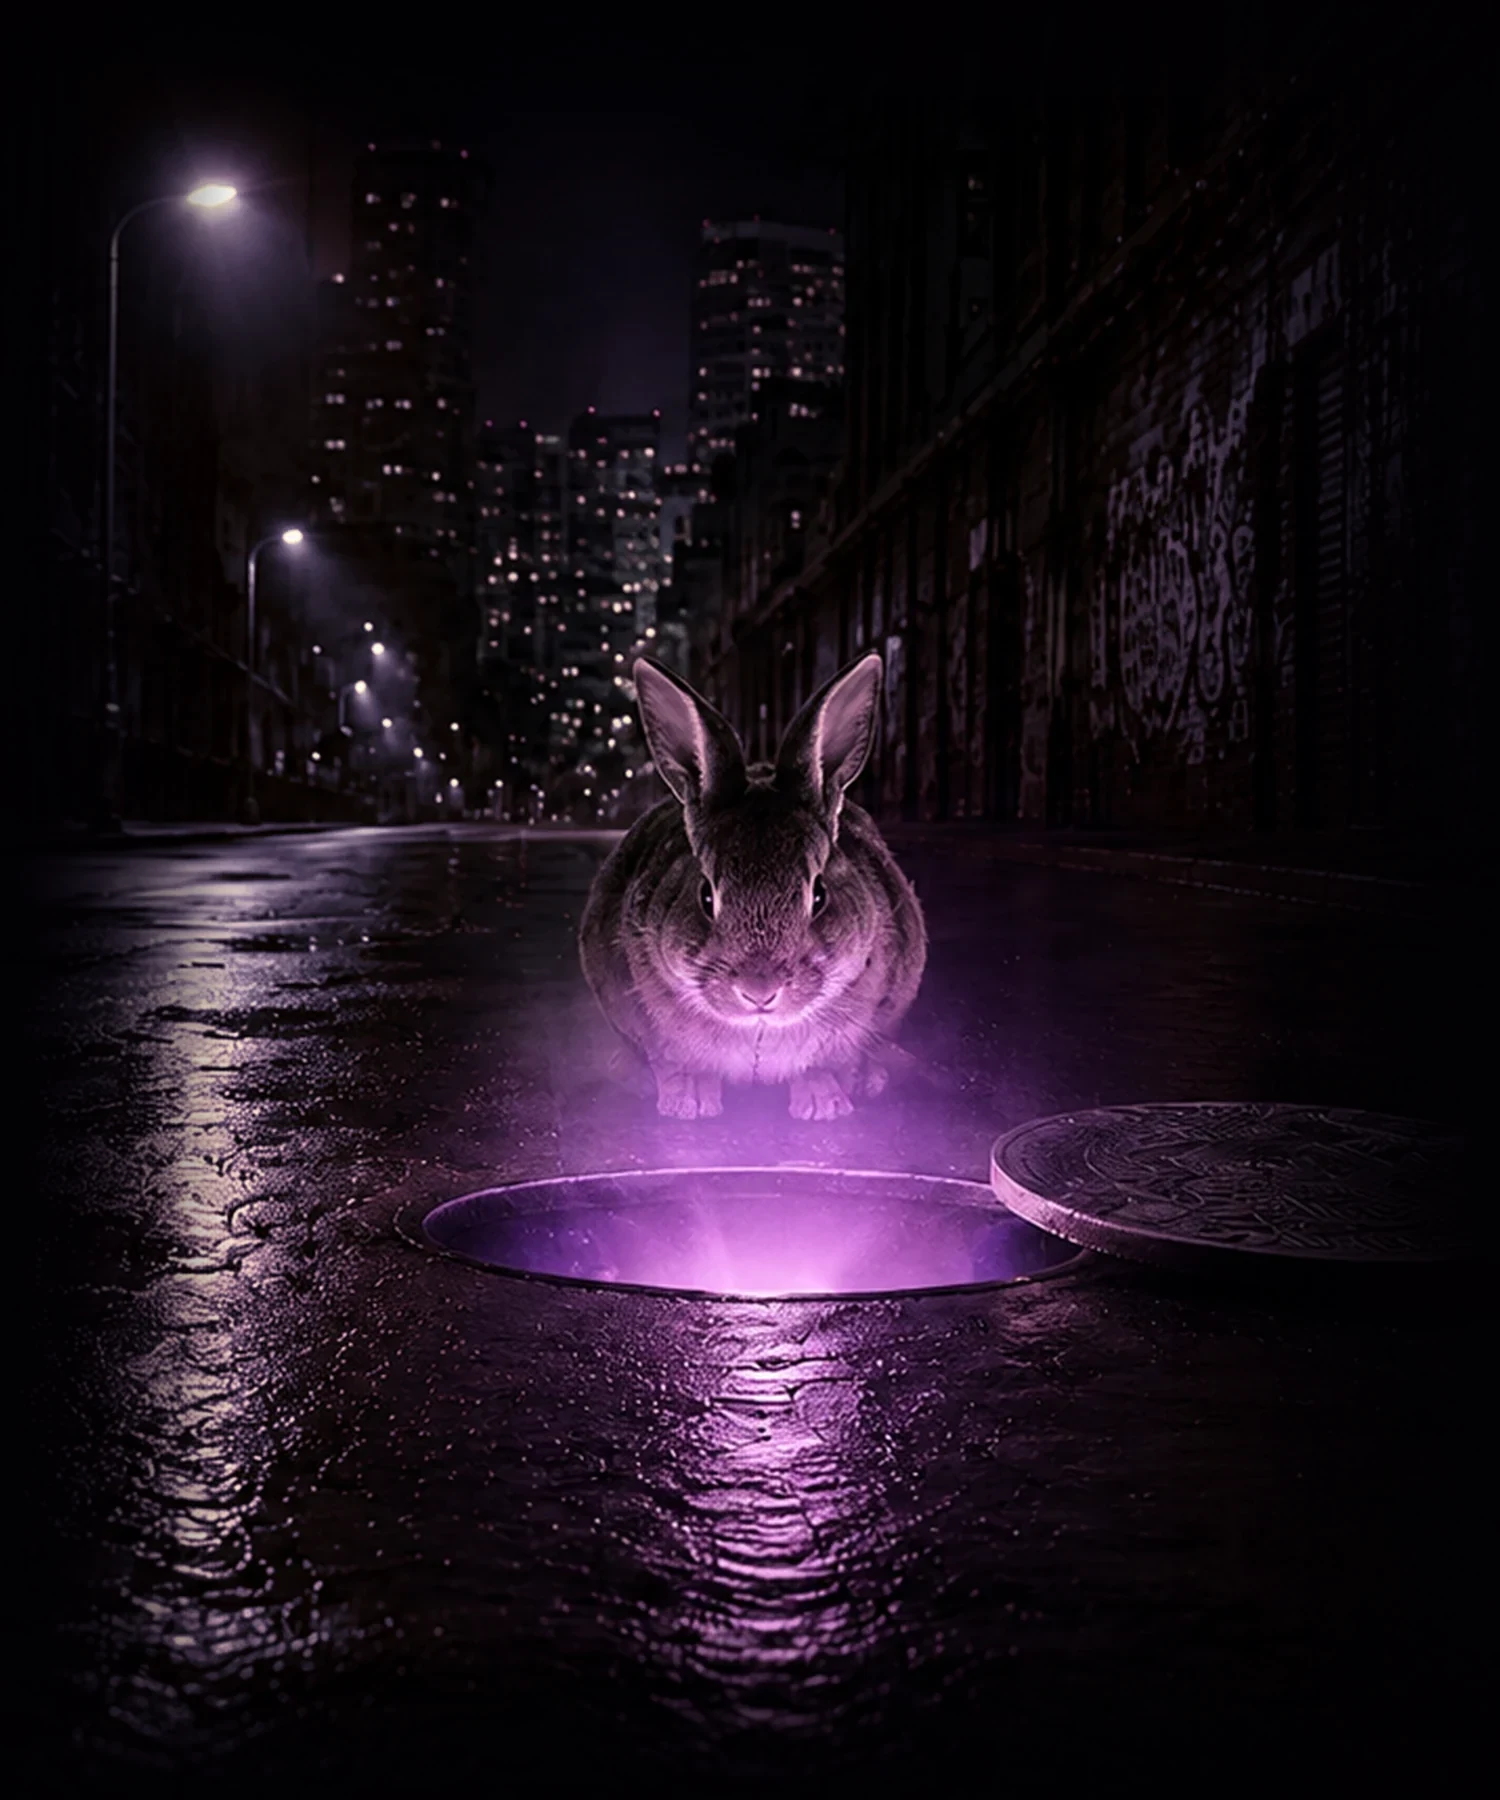
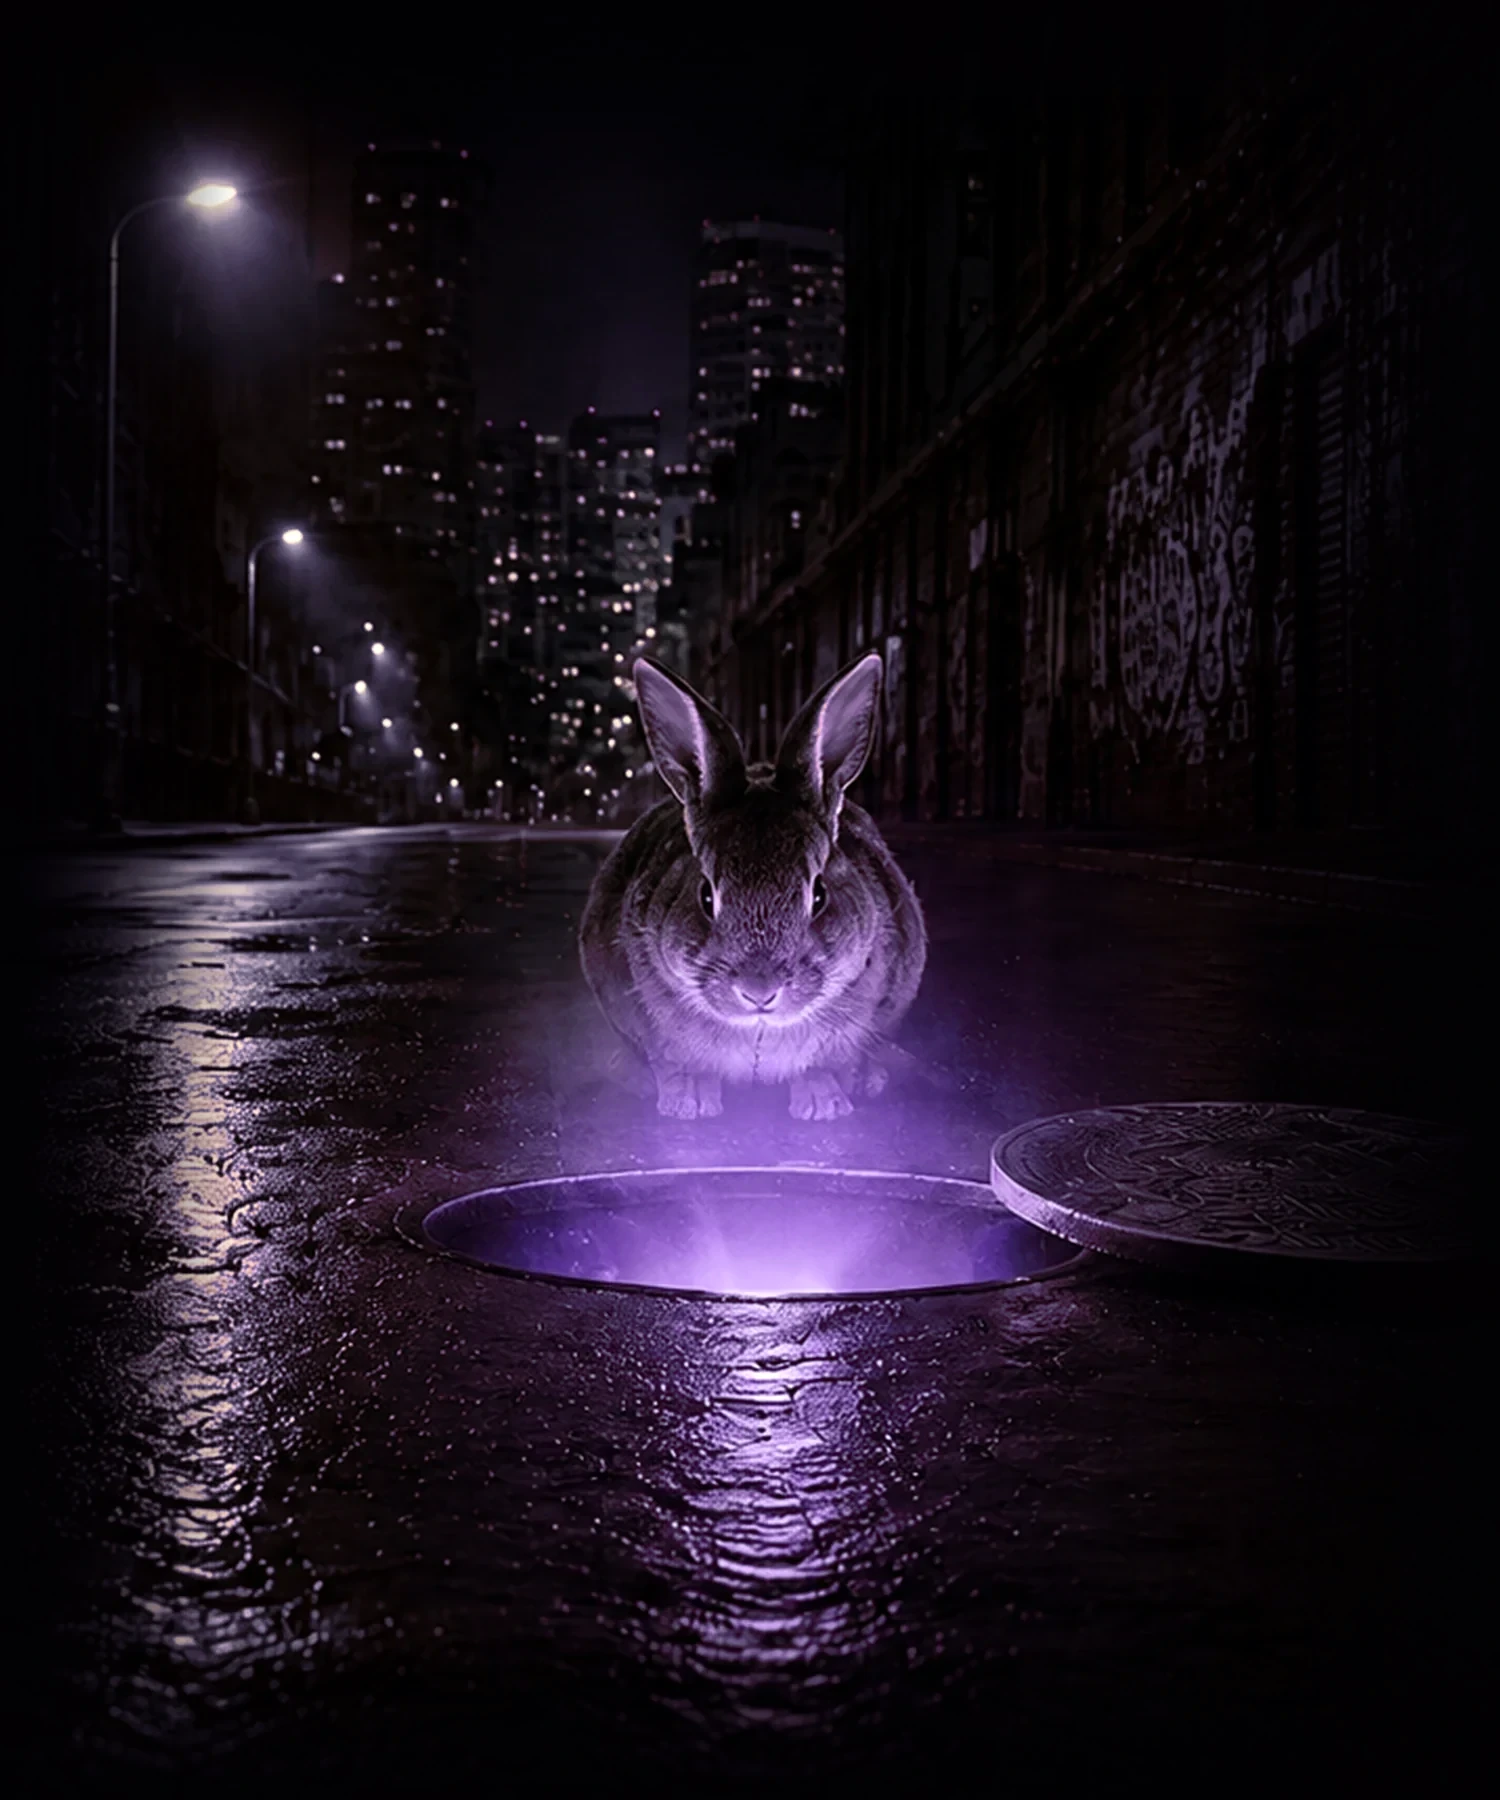
Mobile hero: one layered composition instead of stacked sections
The mobile hero read as three separate blocks (headline, search UI,
then -- after a scroll's worth of empty height -- the artwork). Rebuilt
it around the same "photo is the background, copy is layered on top"
language the desktop hero already uses, instead of pinning a shrunk
image to the bottom of an artificially tall container:

- background-position: center bottom -> center top; background-size:
  auto 72% -> auto 96% (near its natural cover scale). The plate now
  starts at the hero's own top edge instead of waiting for the copy
  column to end, so the rabbit's face reads well inside the first
  viewport instead of only after scrolling.
- .home-hero-grid min-height: 108svh -> 100svh (a floor, not a forced
  height) -- the container no longer manufactures empty space to keep
  the image away from the text; legibility is now the veil's job.
- ::after veil retuned: stronger at the very top (eyebrow/headline),
  easing across the search and supporting lines (where the rabbit's
  ears first show through, softly), releasing once its face clears --
  a gradual reveal rather than a visible seam.
- Compacted the copy column so there's more of it before the artwork
  takes over: eyebrow/headline/search-block margins tightened
  (30px/24px h1 + points margins -> 20px/18px, eyebrow 20px -> 14px),
  supporting-line type 15px/1.5 -> 13.5px/1.35 with the row gap
  9px -> 5px (SEARCH/JUMP/EXPLORE keep their violet-soft emphasis,
[…]

diff --git a/frontend/src/index.css b/frontend/src/index.css
@@ -300,109 +300,103 @@ body {
       var(--hero-black) 100%);
 }
 
-/* ── Phone hero: copy first, scene second, portal as payoff ───────
-   The portrait plate (RabbitHole_Hero_Mobile.webp, 1500x1800 -- already
-   the only hero asset a phone downloads) is deliberately rendered SMALLER
-   than the hero and bottom-anchored, not stretched to `cover` the whole
-   height. That does two things at once: the rabbit/hole render at a
-   visibly smaller scale (no new asset needed -- see the background-size
-   note below), and the freed space above the image is pure --hero-black,
-   giving the eyebrow/headline/search real dark breathing room instead of
-   sitting on top of the image. The copy block reads first; the rabbit
-   begins clearly below the supporting lines, not behind them. */
+/* ── Phone hero: ONE layered composition, not stacked sections ────
+   Previous approach: shrink the portrait plate (RabbitHole_Hero_Mobile.webp,
+   1500x1800 -- already the only hero asset a phone downloads) and pin it to
+   the BOTTOM of an intentionally tall container, so the rabbit only appears
+   once the whole copy column has scrolled past. That reads as three stacked
+   sections (headline / UI / artwork) with a visible seam where the text
+   ends and the photo begins.
+
+   Now: the plate is anchored to the TOP of the hero and sized close to its
+   natural (near-`cover`) scale, so it starts right behind the eyebrow --
+   the same "photo IS the background, copy is layered on top" language the
+   desktop hero already uses. What keeps the eyebrow/headline/search legible
+   over it is the ::after veil below (strong up top, easing down), not empty
+   space. The rabbit's ears read as a soft hint beneath the supporting
+   lines; its face and the hole clear the veil and read fully a little
+   further down -- normally still inside the first viewport, with the
+   pavement/reflection continuing below the fold (never cropped to force a
+   fit). */
 @media (max-width: 900px) {
   .home-hero-grid {
     display: flex;
     flex-direction: column;
-    /* Tuned so the copy column (fixed height, pinned to the top) clears
-       the rabbit's ears with real margin across the primary phone sizes
-       (375x667 - 430x932) without an oversized dead zone below the fold.
-       Generous on purpose: real iOS Safari's `svh` reflects the visible
-       viewport WITH the address/tab bars showing, which measured
-       meaningfully shorter than desktop-Chrome mobile emulation assumed --
-       the copy block's height is fixed (font-size/margins are width-driven,
-       not height-driven), so a shorter real viewport erodes the clearance
-       below it faster than emulation predicted. Confirmed against a real
-       iPhone screenshot, not just emulated devtools. */
-    min-height: 108svh;
-    padding: 40px 0 0;
+    /* A floor, not a fixed height -- roughly one viewport. If the (now
+       compact) copy column ever needs more, the container simply grows;
+       it never forces extra empty height the way the old bottom-anchored
+       layout did. */
+    min-height: 100svh;
+    padding: 26px 0 0;
     background-image: url("/RabbitHole_Hero_Mobile.webp");
     background-repeat: no-repeat;
-    /* Bottom-anchored so the rabbit/hole/lid stay put; centred horizontally
-       keeps the hole (not the rabbit's off-centre body) on the visual
+    /* Top-anchored: the plate starts at the hero's own top edge (the veil
+       keeps that region dark), not pinned to the bottom waiting for the
+       copy to end. Centred horizontally keeps the hole on the visual
        midline across every phone width in the UAT set. */
-    background-position: center bottom;
-    /* The actual "reduce rabbit scale" lever: at these aspect ratios
-       `cover` is height-constrained (image height == container height,
-       i.e. the subject renders at 100% scale). Fixing the height to a
-       fraction of the container -- width left to `auto` so the source
-       aspect ratio is preserved, nothing stretched -- renders the whole
-       scene smaller and, being bottom-anchored, pushes it down rather
-       than just shrinking it in place. Pushed past the nominal ~15-20%
-       ask (to ~28%, auto 72%) after a real-device screenshot showed the
-       ears still crowding the last supporting line at the originally
-       calculated 82% -- the no-overlap requirement wins over the exact
-       scale-reduction number. Width at 72% height still covers the
-       widest phone in the UAT set with room to spare, so this never
-       opens a gap at the sides. */
-    background-size: auto 72%;
+    background-position: center top;
+    /* Near its natural scale (cover, for this portrait image in a taller
+       portrait container, is height-constrained -- 100% would be
+       identical to `cover`). A hair under so there's a soft near-black
+       margin at the very bottom rather than a hard image edge right at
+       the hero's own bottom. */
+    background-size: auto 96%;
   }
   .home-hero-grid::after {
     display: block;
-    /* Vertical veil, now doing less work than before -- the image itself
-       no longer starts until partway down the hero, so the top of the
-       veil sits over flat --hero-black already. Still: strong behind the
-       headline, easing through the search, lighter behind the supporting
-       lines, fully released well above the rabbit. Plus the usual short
-       bottom fade so the pavement dissolves into the next section. */
+    /* Vertical veil doing the legibility work the old layout got from
+       spacing: strong through the eyebrow/headline, still solid through
+       the search, easing across the supporting lines (where the rabbit's
+       ears first peek through, softly), releasing by the point its face
+       clears -- then the usual short bottom fade into the next section. */
     background:
       linear-gradient(180deg,
-        rgba(3, 1, 5, 0.72) 0%,
-        rgba(3, 1, 5, 0.56) 16%,
-        rgba(3, 1, 5, 0.4) 28%,
-        rgba(3, 1, 5, 0.24) 38%,
-        rgba(3, 1, 5, 0.08) 48%,
-        transparent 56%),
+        rgba(3, 1, 5, 0.88) 0%,
+        rgba(3, 1, 5, 0.76) 14%,
+        rgba(3, 1, 5, 0.6) 26%,
+        rgba(3, 1, 5, 0.44) 36%,
+        rgba(3, 1, 5, 0.22) 46%,
+        rgba(3, 1, 5, 0.06) 55%,
+        transparent 62%),
       linear-gradient(180deg,
         transparent 95%,
         var(--hero-black) 100%);
   }
   .home-hero {
     width: 100%;
-    padding: 6px 16px 0;
+    padding: 4px 16px 0;
   }
-  /* Small dark backing on the phone-only supporting lines: even pushed
-     down and shrunk, the rabbit's rim-lit ears can still graze the last
-     line on the shortest phones, and a bright spot behind one glyph would
-     drop local contrast. Not a glow -- the opposite. Desktop's own (much
-     lighter) shadow lives on the base .home-hero-point rule; the extra
-     selector here just outweighs it on specificity so mobile keeps its
-     stronger backing regardless of the two rules' source order. */
+  /* Small dark backing on the phone-only supporting lines: they now sit
+     deliberately closer to the artwork (the rabbit's ears can read just
+     behind them), and a bright spot behind one glyph would drop local
+     contrast. Not a glow -- the opposite. Desktop's own (much lighter)
+     shadow lives on the base .home-hero-point rule; the extra selector
+     here just outweighs it on specificity so mobile keeps its stronger
+     backing regardless of the two rules' source order. */
   .home-hero-grid .home-hero-point {
     text-shadow: 0 1px 7px rgba(3, 1, 5, 0.9);
   }
-  /* Mobile-only: a slightly smaller footprint than the desktop field --
-     full width within the standard 16px gutters (already true via
-     .home-hero's own padding above), shorter, and a touch less internal
-     padding so it doesn't dominate the viewport as the primary action
-     among several. Extra selector weight (matching .home-hero-grid
-     .home-hero-point below) so this wins on specificity, not source
-     order, over the unconditional base .home-search-form rule that
-     comes later in the file. */
+  /* Mobile-only search footprint: full width within the standard 16px
+     gutters (already true via .home-hero's own padding above), and
+     subordinate to the headline rather than the desktop field's full
+     62px -- but not so short it stops feeling like the primary action.
+     Extra selector weight (matching .home-hero-grid .home-hero-point
+     below) so this wins on specificity, not source order, over the
+     unconditional base .home-search-form rule later in the file. */
   .home-hero-grid .home-search-form {
     max-width: none;
-    min-height: 58px;
-    padding: 7px 10px 7px 18px;
+    min-height: 66px;
+    padding: 8px 12px 8px 20px;
   }
 }
 
-/* Short phones (e.g. 375x667): trim the top air, and give the hero a
-   little extra proportional height so the fixed-height copy block still
-   clears the bottom-anchored rabbit when there's less of it to work with. */
+/* Short phones (e.g. 375x667): trim the top air a little further so the
+   headline still owns the first screen. Height itself no longer needs a
+   proportional boost here -- the rabbit is allowed to sit partly below the
+   fold on a short device now, rather than the layout fighting to avoid it. */
 @media (max-width: 900px) and (max-height: 700px) {
   .home-hero-grid {
-    padding-top: 28px;
-    min-height: 114svh;
+    padding-top: 20px;
   }
 }
 /* Small editorial eyebrow above the headline — quiet, not a second title,
@@ -1809,8 +1803,11 @@ body {
   }
   .topbar {
     gap: 12px;
-    /* Clear the notch when the page is edge-to-edge (viewport-fit=cover). */
-    padding-top: max(14px, env(safe-area-inset-top));
+    /* Slightly tighter than desktop's 14px top/bottom -- the logo and the
+       44x44 touch targets below are untouched, only the air around them.
+       Clears the notch when the page is edge-to-edge (viewport-fit=cover). */
+    padding-top: max(10px, env(safe-area-inset-top));
+    padding-bottom: 10px;
     padding-left: max(20px, env(safe-area-inset-left));
     padding-right: max(20px, env(safe-area-inset-right));
   }
@@ -4613,8 +4610,9 @@ body::after {
 @media (max-width: 900px) {
   .home-h1 {
     font-size: clamp(33px, 10.5vw, 52px);
-    /* Headline -> search gap, ~28-32px target. */
-    margin-bottom: 30px;
+    /* Tightened again -- spacing did the work here, not the type scale
+       (unchanged). Headline -> search gap. */
+    margin-bottom: 20px;
   }
   /* Phone: a line may wrap gracefully on a very narrow viewport rather
      than overflow. */
@@ -4622,15 +4620,25 @@ body::after {
     white-space: normal;
   }
   .home-hero-eyebrow {
-    margin-bottom: 20px;
+    margin-bottom: 14px;
   }
-  /* Search -> supporting-copy gap, ~22-26px target. */
+  /* Search -> supporting-copy gap. */
   .home-hero-points {
-    margin-top: 24px;
+    margin-top: 18px;
   }
-  /* Supporting-line row spacing, ~8-10px target. */
+  /* Supporting lines: noticeably more compact than desktop's -- smaller
+     type, tighter leading, tighter row gap -- so three short sentences
+     read as one quiet block instead of three separate rows competing
+     with the search field above them for room. Clarity over density: the
+     SEARCH / JUMP / EXPLORE words stay legible and still pop in
+     --violet-soft, just at a scale that matches how secondary this copy
+     is on a phone. */
+  .home-hero-point {
+    font-size: 13.5px;
+    line-height: 1.35;
+  }
   .home-hero-point + .home-hero-point {
-    margin-top: 9px;
+    margin-top: 5px;
   }
 }
 
